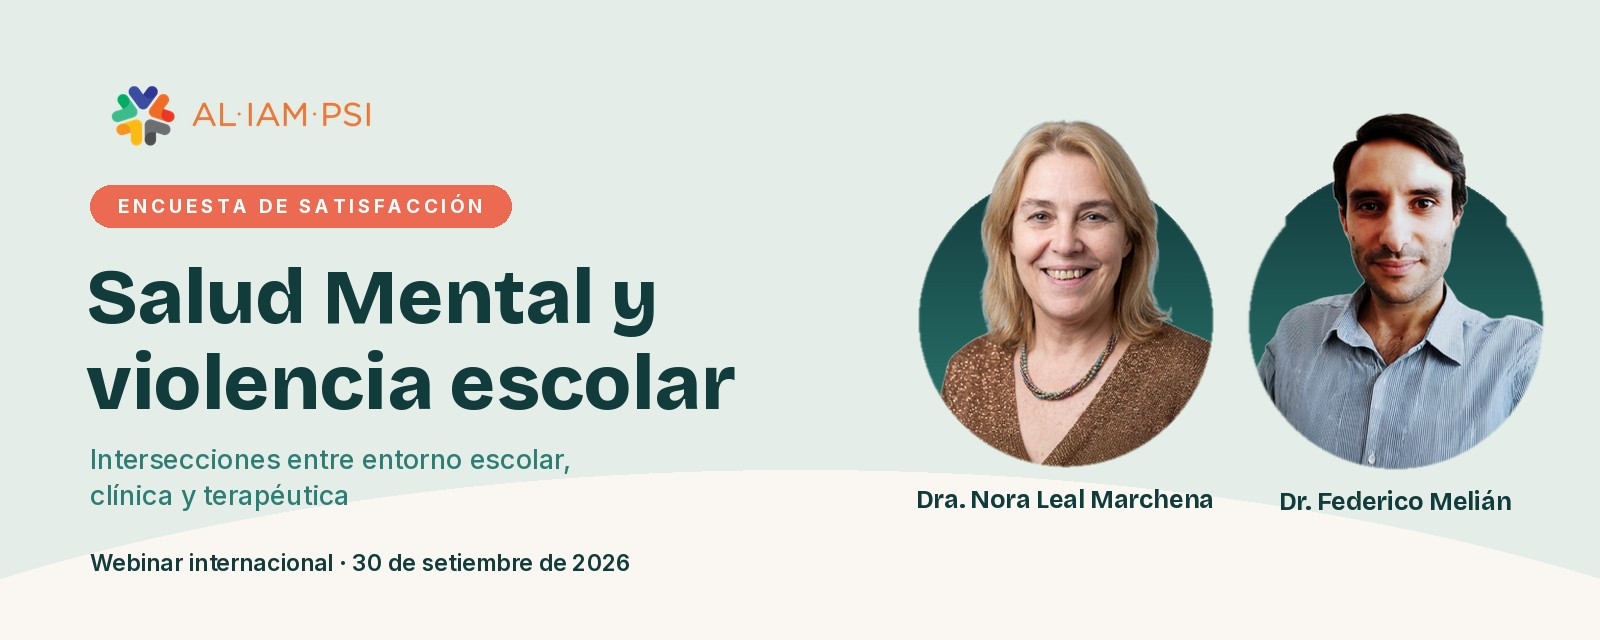
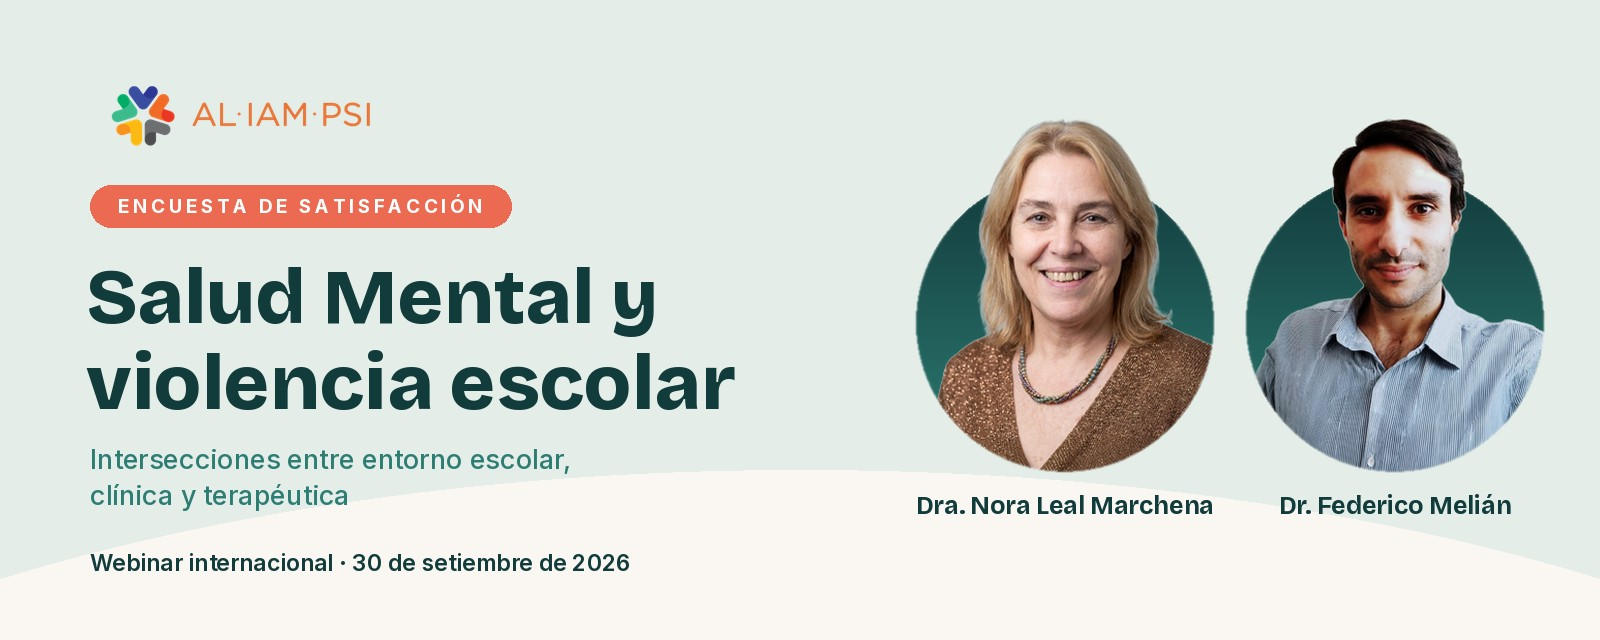
Encuestas: corrige el medallon de Melian en la portada del webinar. v2026.10.03-95

Changed region(s): [[0.5625, 0.1562, 0.9688, 0.8125]]

diff --git a/aliampsi/src/lib/version.ts b/aliampsi/src/lib/version.ts
@@ -1,12 +1,17 @@
 // Fuente única de la versión de la app.
 // Subir este valor en cada cambio de código dispara el aviso de "versión nueva".
-export const APP_VERSION = 'v2026.10.03-94';
+export const APP_VERSION = 'v2026.10.03-95';
 
 export type EntradaHistorial = { version: string; fecha: string; cambios: string[] };
 
 // Lo que cambió, escrito para quien administra el sitio. La más nueva, arriba.
 // El detalle técnico de cada versión está en CHANGELOG.md.
 export const HISTORIAL: EntradaHistorial[] = [
+  {
+    version: 'v2026.10.03-95',
+    fecha: '3/10/2026',
+    cambios: ['Corregido el recorte del medallón del Dr. Federico Melián en la portada de la encuesta del webinar.'],
+  },
   {
     version: 'v2026.10.03-94',
     fecha: '3/10/2026',

diff --git a/CHANGELOG.md b/CHANGELOG.md
@@ -3,6 +3,9 @@
 Numeración: `vAAAA.MM.DD-N` (fecha del despliegue y número correlativo).
 La versión vigente vive en `aliampsi/src/lib/version.ts`, junto al historial que se muestra en el panel.
 
+## v2026.10.03-95 — 3/10/2026
+- Portada de la encuesta del webinar: medallón de Melián recortado con el radio y el centro reales (145 px; antes 142, que cortaba el borde derecho).
+
 ## v2026.10.03-94 — 3/10/2026
 - Encuesta: campo `portada` (ImageField en el editor; imagen arriba de la encuesta y en `og:image`). Plantilla del webinar con `/encuestas/portada-webinar-violencia-escolar.jpg`.
 - **Certificados de asistencia.** `Encuesta.certificado`, `certActividad`, `certDetalle`; modelo `SolicitudCertificado` (nombre, correo, estado pendiente/validada/rechazada/enviada, fecha solo con el día) **sin relación con `RespuestaEncuesta`**, para no romper el anonimato.
